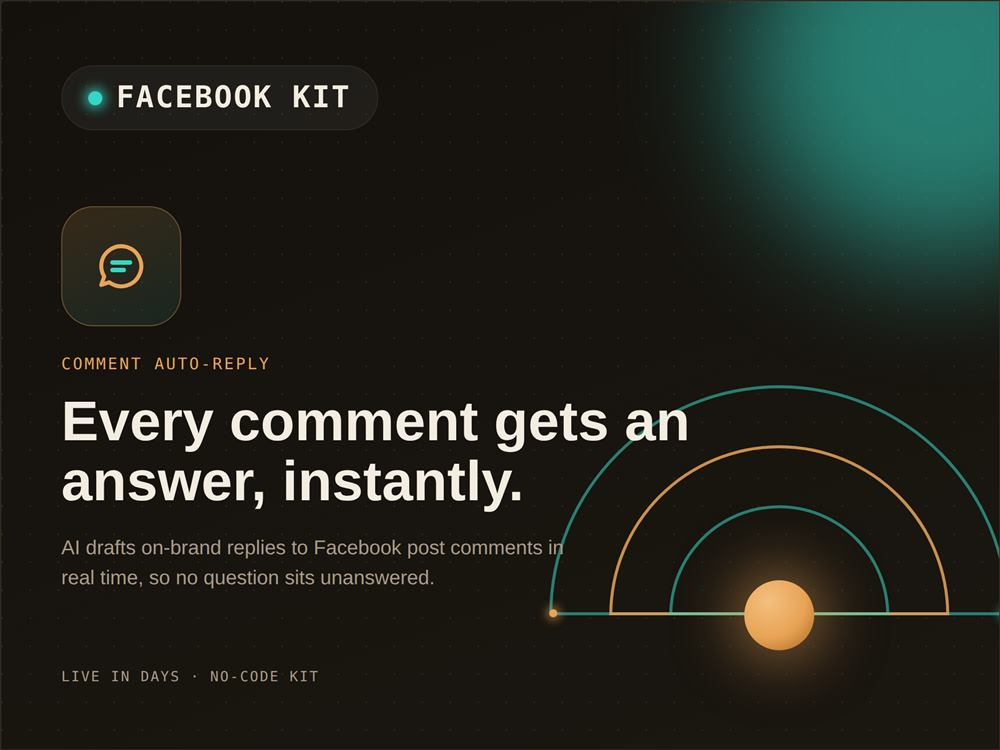
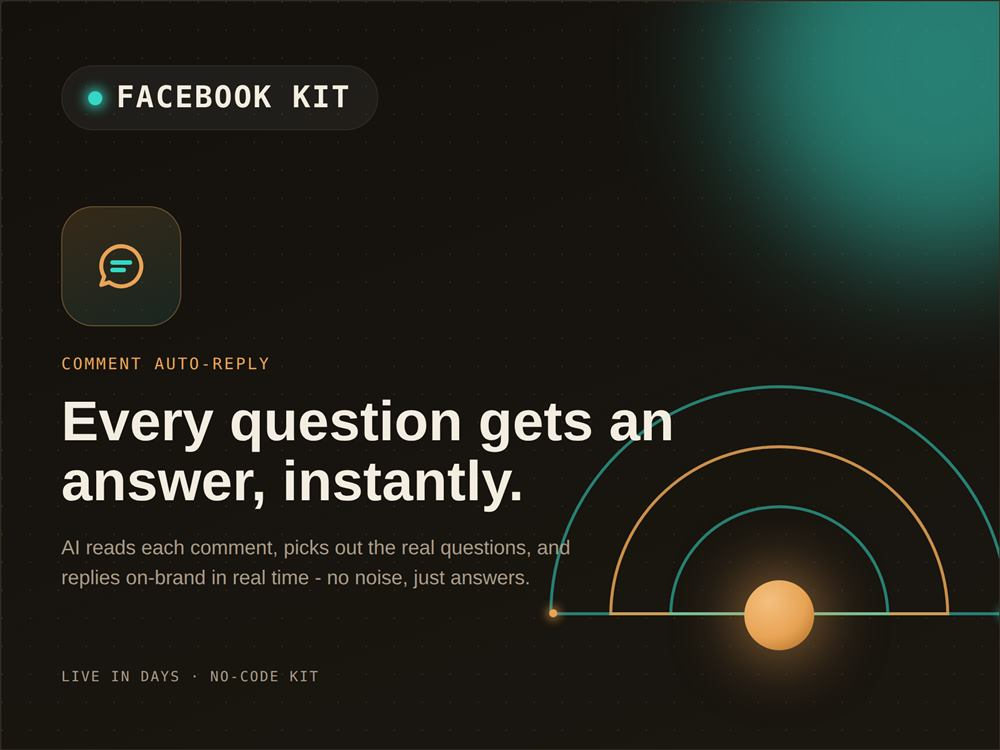
Update Facebook comment auto-reply thumbnail and copy
New thumbnail leads with "Every question gets an answer, instantly." -
update the card description and image alt text to match.

Changed region(s): [[0.062, 0.7053, 0.558, 0.7973], [0.248, 0.5213, 0.713, 0.6133]]

diff --git a/ready-made-kits.html b/ready-made-kits.html
@@ -111,10 +111,10 @@
         </div>
       </a>
       <a class="kit-card corner-frame" href="/contact">
-        <div class="kit-photo"><img src="kits/facebook-comment-auto-reply.jpg" alt="Facebook comment auto-reply kit" loading="lazy" width="1000" height="750"></div>
+        <div class="kit-photo"><img src="kits/facebook-comment-auto-reply.jpg" alt="Facebook comment auto-reply kit — every question gets an answer, instantly" loading="lazy" width="1000" height="750"></div>
         <div class="kit-card-body">
           <h3>Facebook comment auto-reply</h3>
-          <p>Comments on your posts and ads get an instant, on-brand reply — no one waits on you to notice.</p>
+          <p>AI reads every comment, picks out the real questions, and replies on-brand in real time — no noise, just answers.</p>
         </div>
       </a>
       <a class="kit-card corner-frame" href="/contact">
